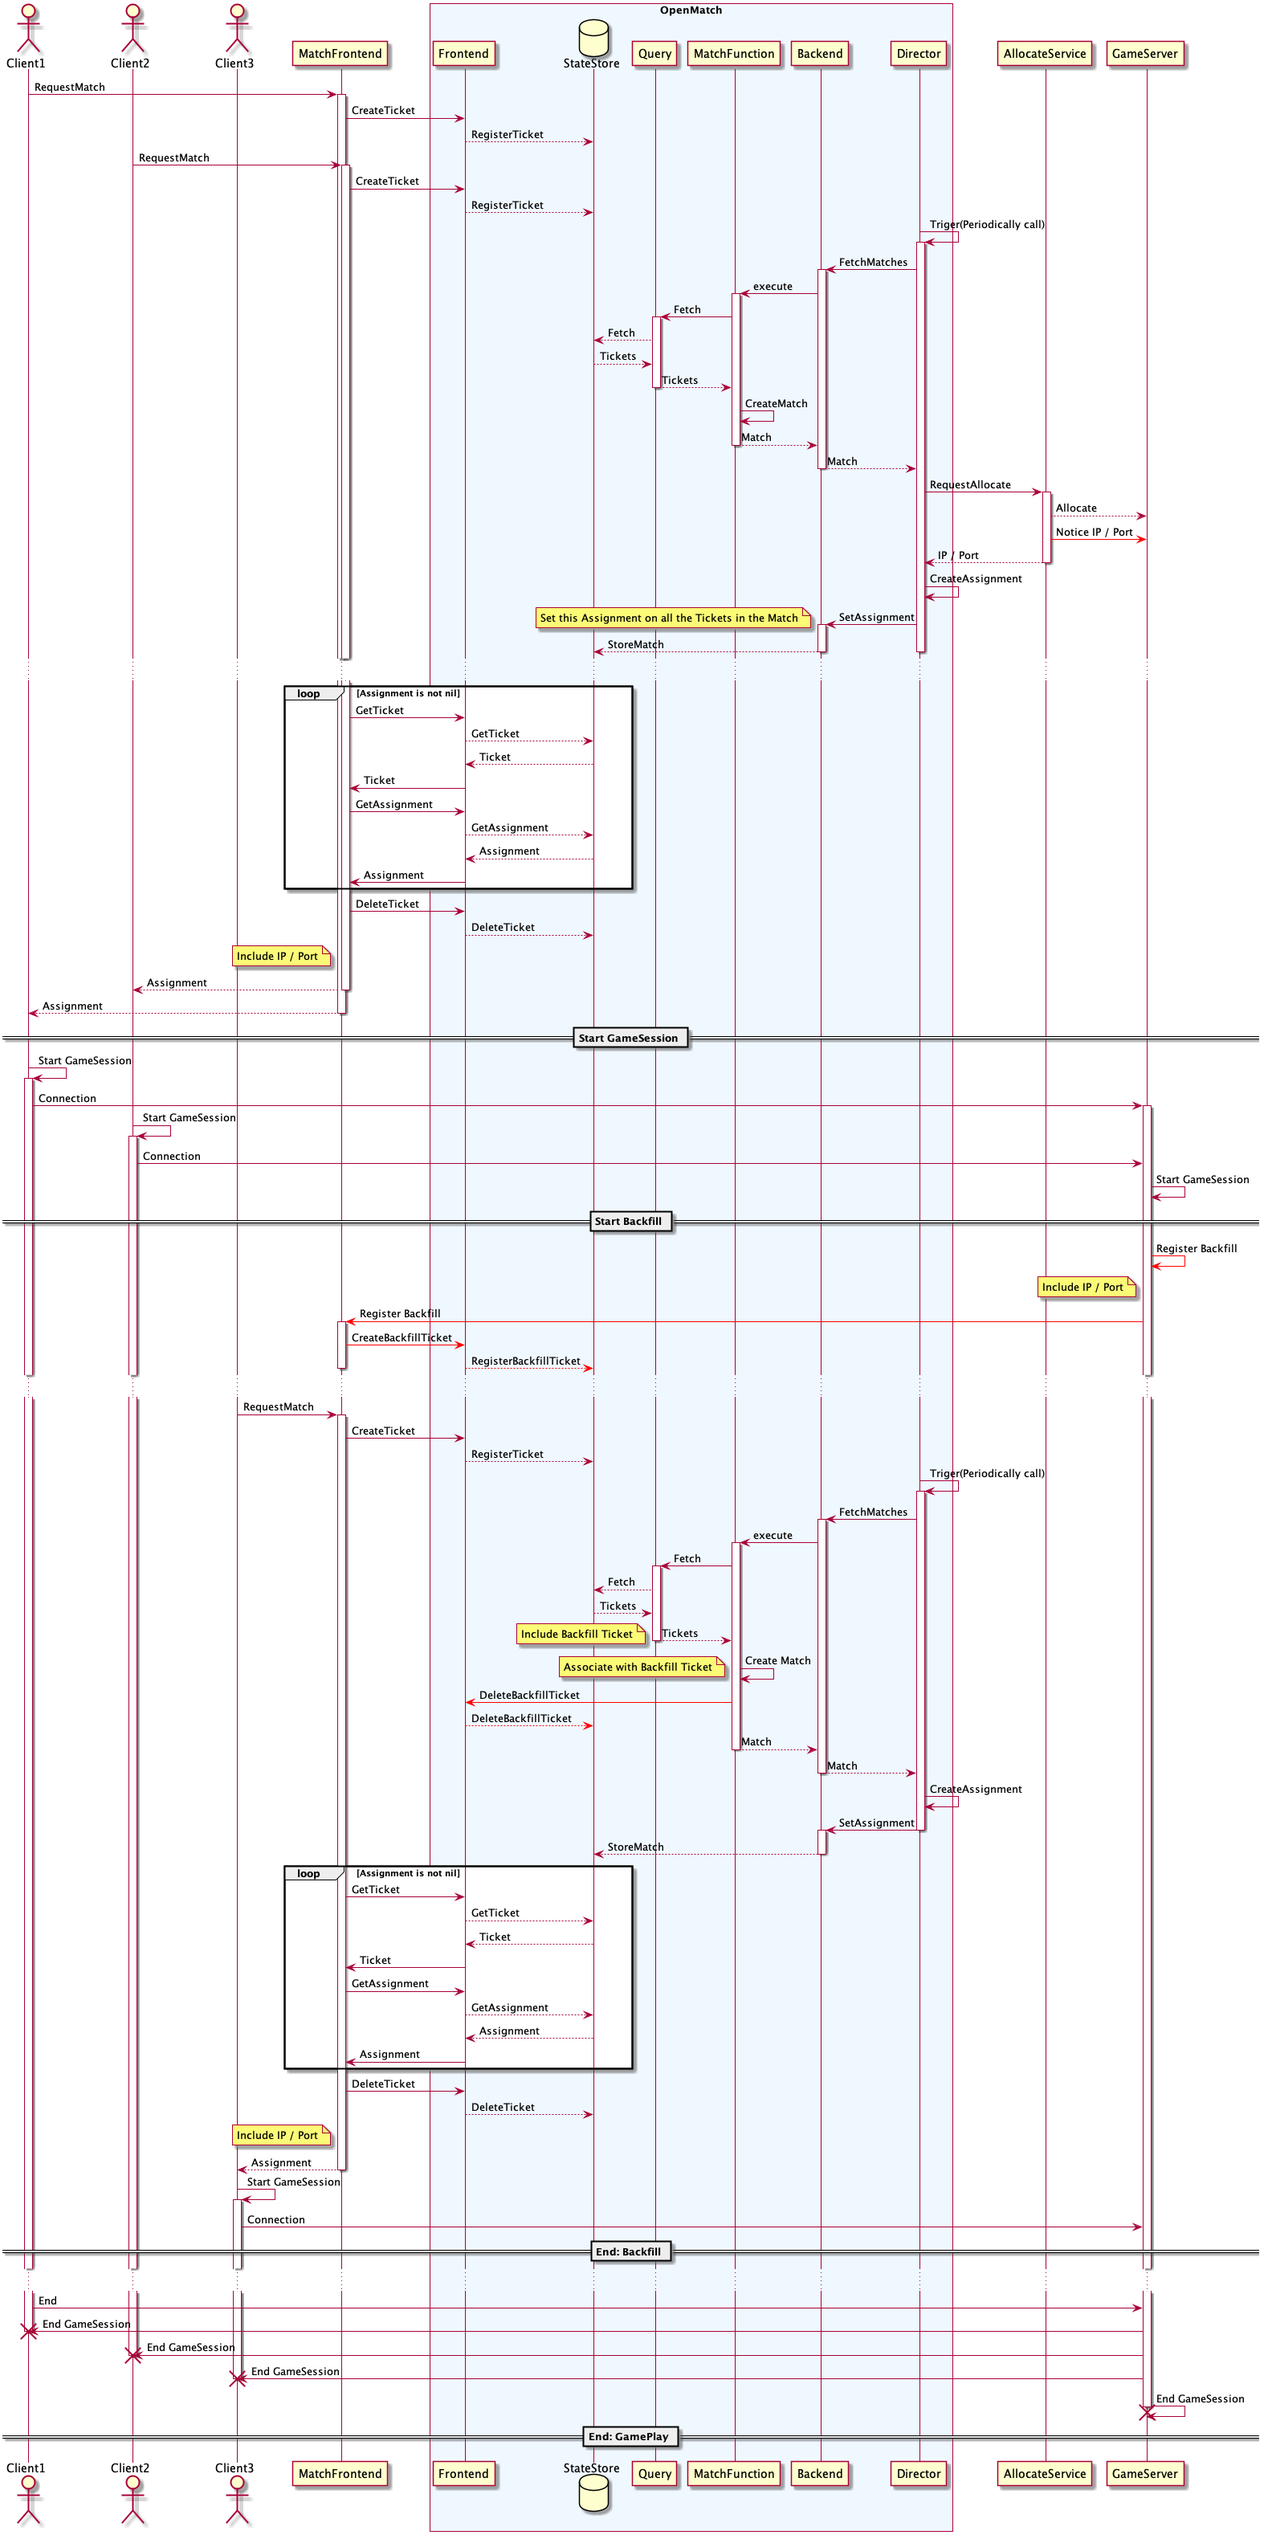
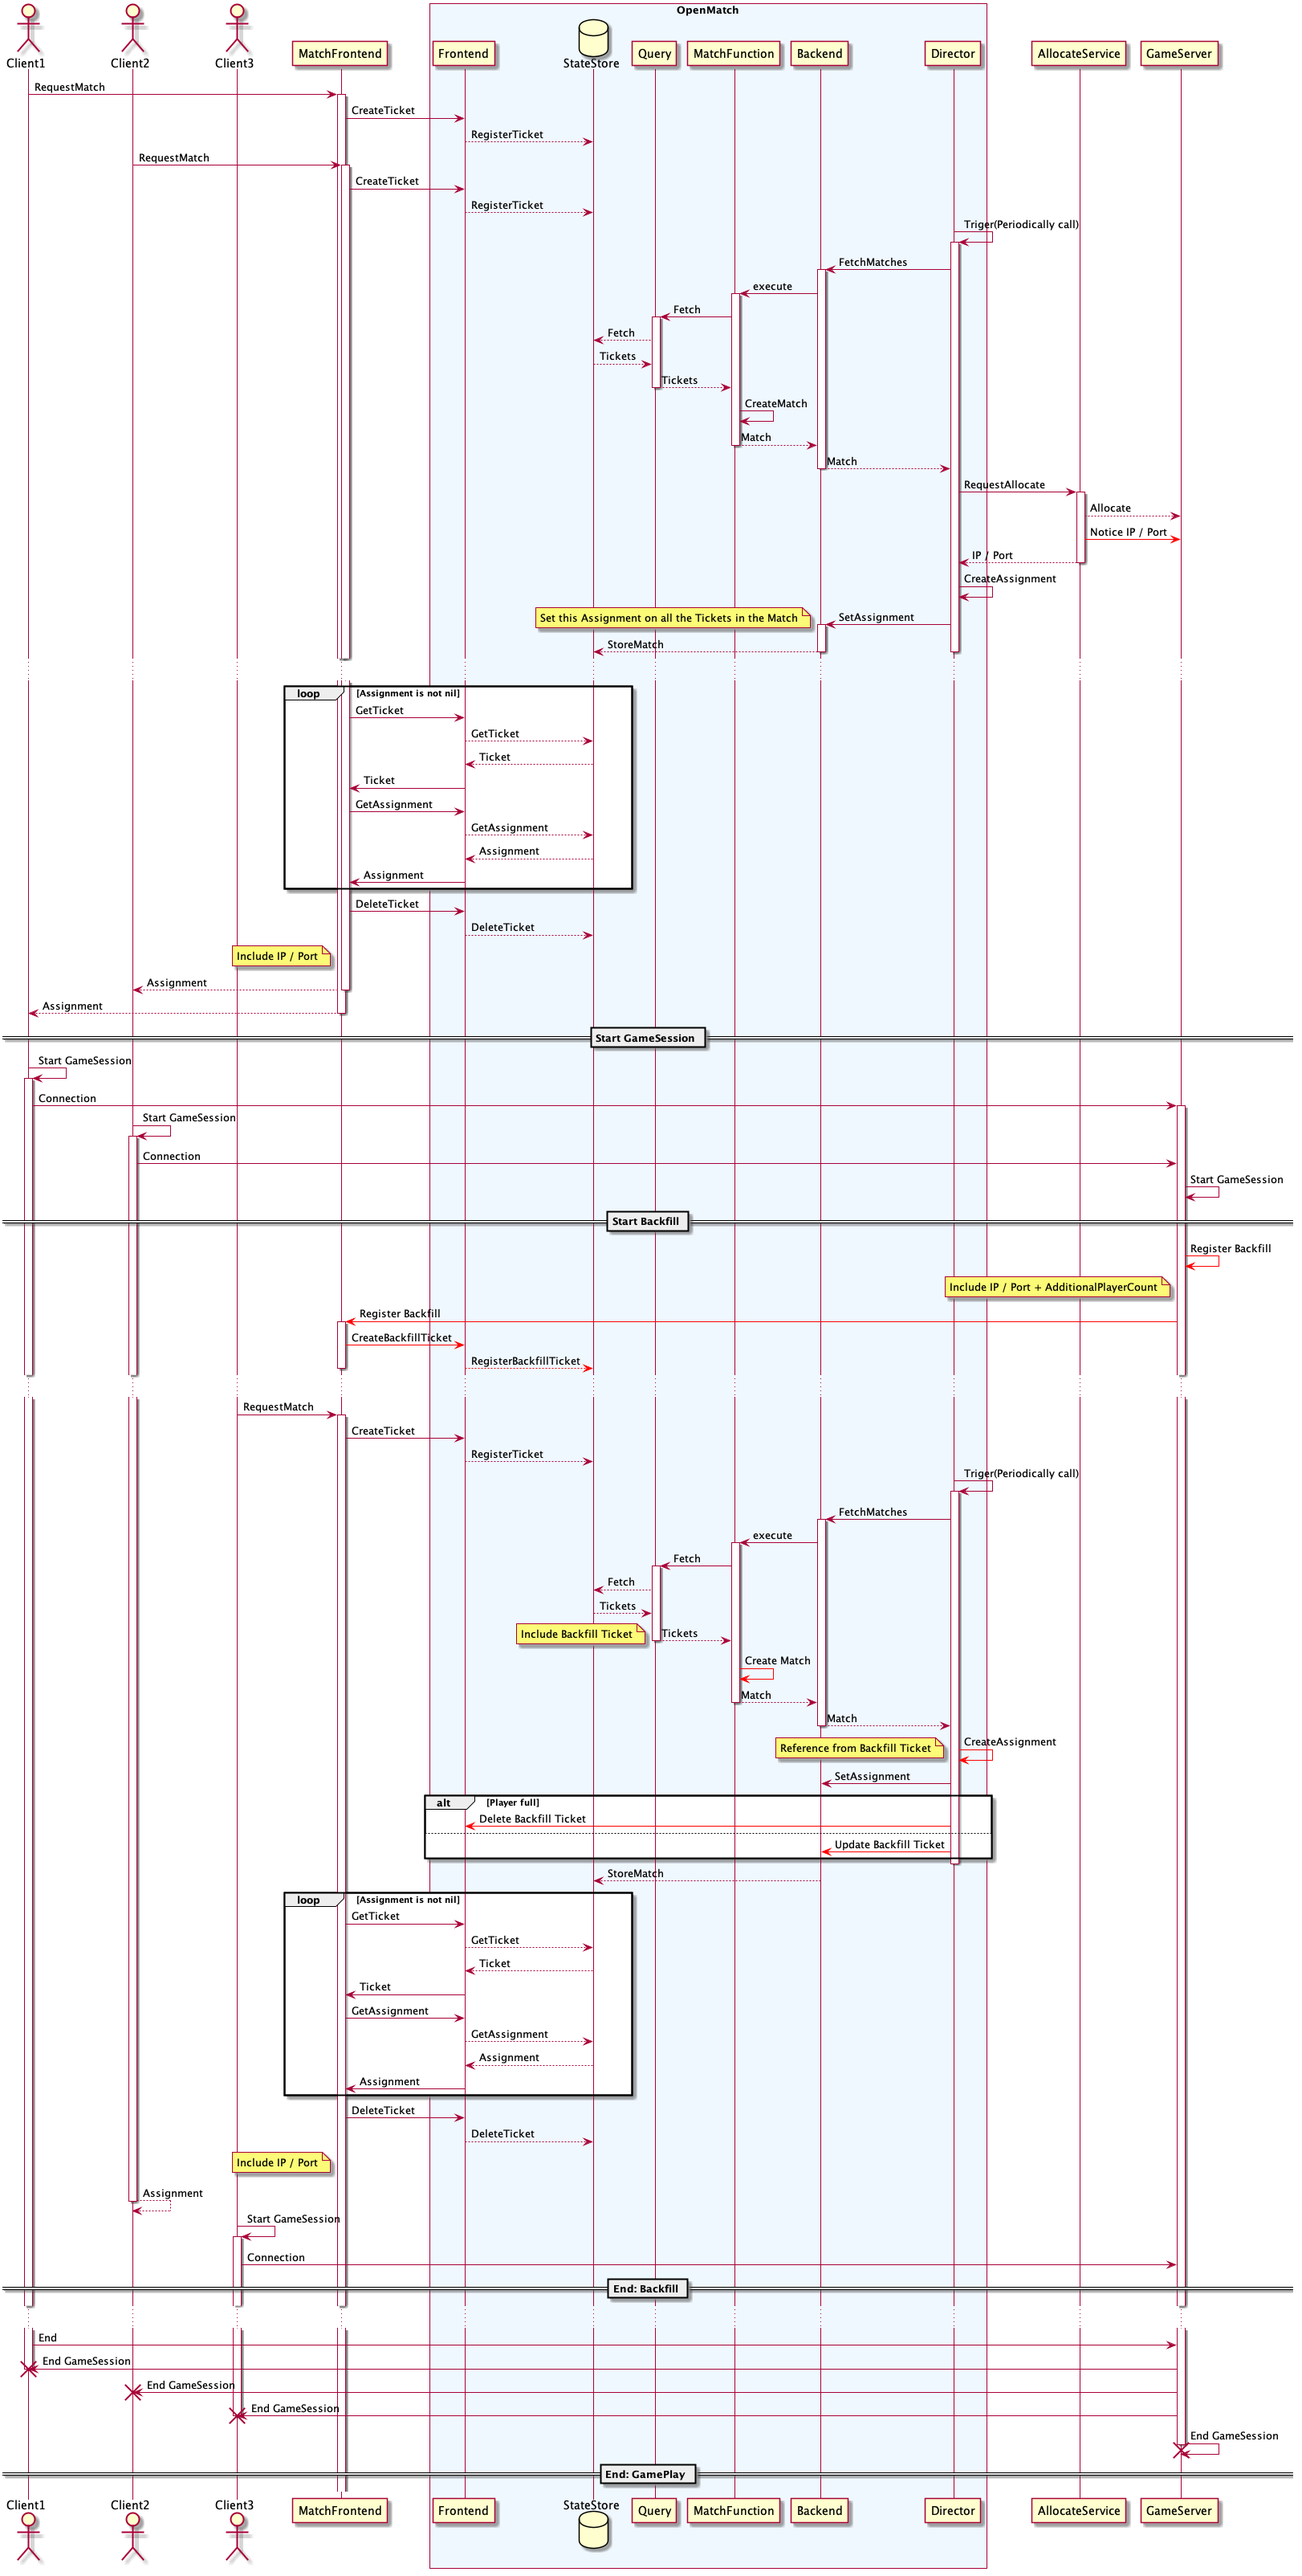
[Add] GameServer(simple-udp)のbackfill対応
- Connection通知を受け付けるよう対応
- Session開始時にBackfillTicketを作成
- プレイヤー退出時にBackfillTicketを作成

diff --git a/GameServer/mod_simple-udp/main.go b/GameServer/mod_simple-udp/main.go
@@ -2,10 +2,12 @@
 package main
 
 import (
+	"bytes"
 	"encoding/json"
 	"flag"
 	"log"
 	"net"
+	"net/http"
 	"os"
 	"strconv"
 	"strings"
@@ -15,6 +17,13 @@ import (
 	"agones.dev/agones/pkg/util/signals"
 	sdk "agones.dev/agones/sdks/go"
 )
+
+const (
+	// OpenMatchのBackfillEndpoint
+	mfBackfillEndpoint = "match-frontend.svc.cluster.local:80/backend"
+)
+
+const maxPlayerNum = 4
 
 var addrs = map[uint]net.Addr{}
 
@@ -85,12 +94,15 @@ func doSignal() {
 
 func readWriteLoop(conn net.PacketConn, stop chan struct{}, s *sdk.SDK) {
 	b := make([]byte, 1024)
+	var connection string
 	for {
 		sender, txt := readPacket(conn, b)
 
+		var recvPort uint
 		switch addr := sender.(type) {
 		case *net.UDPAddr:
-			addrs[uint(addr.Port)] = addr
+			recvPort = uint(addr.Port)
+			addrs[recvPort] = addr
 		}
 
 		parts := strings.Split(strings.TrimSpace(txt), " ")
@@ -148,6 +160,21 @@ func readWriteLoop(conn net.PacketConn, stop chan struct{}, s *sdk.SDK) {
 				respond(conn, sender, "ERROR: Invalid ANNOTATION command, must use zero or 2 arguments\n")
 				continue
 			}
+
+		case "CONNECTION":
+			connection = txt
+
+		case "SESSIONSTART":
+			joinablePlayerNum := maxPlayerNum - len(addrs)
+			if joinablePlayerNum > 0 {
+				// OpenMatchのBackfillEndpointにBackfillTicketの作成を依頼
+				requestBackfill(connection, joinablePlayerNum)
+			}
+
+		case "LEAVE":
+			// OpenMatchのBackfillEndpointにBackfillTicketの作成を依頼
+			requestBackfill(connection, 1)
+			delete(addrs, recvPort)
 		}
 
 		respond(conn, sender, "ACK: "+txt+"\n")
@@ -273,4 +300,30 @@ func doHealth(sdk *sdk.SDK, stop <-chan struct{}) {
 		case <-tick:
 		}
 	}
+}
+
+// backfillRequest
+type backfillRequest struct {
+	Connection        string `json:"connection" form:"connection" query:"connection"`
+	JoinablePlayerNum string `json:"joinableplayernum" form:"joinableplayernum" query:"joinableplayernum"`
+}
+
+// requestBackfill
+func requestBackfill(connection string, joinablePlayerNum int) error {
+	reqBody := backfillRequest{Connection: connection, JoinablePlayerNum: strconv.Itoa(joinablePlayerNum)}
+	body, err := json.Marshal(reqBody)
+	if err != nil {
+		return err
+	}
+	backfillReq, err := http.NewRequest("POST", mfBackfillEndpoint, bytes.NewReader(body))
+	if err != nil {
+		return err
+	}
+	client := new(http.Client)
+	resp, err := client.Do(backfillReq)
+	if err != nil {
+		return err
+	}
+	defer resp.Body.Close()
+	return nil
 }

diff --git a/OpenMatch/mod_matchmaker101/director/main.go b/OpenMatch/mod_matchmaker101/director/main.go
@@ -7,6 +7,7 @@ import (
 	"io"
 	"io/ioutil"
 	"log"
+	"net"
 	"net/http"
 	"strconv"
 	"sync"
@@ -189,6 +190,8 @@ func assign(be pb.BackendServiceClient, matches []*pb.Match) error {
 		var conn string
 		conn = fmt.Sprintf("%s:%d", alo.Status.Address, alo.Status.Ports[0].Port)
 
+		go noticeConnection(conn)
+
 		req := &pb.AssignTicketsRequest{
 			TicketIds: ticketIDs,
 			Assignment: &pb.Assignment{
@@ -204,6 +207,14 @@ func assign(be pb.BackendServiceClient, matches []*pb.Match) error {
 	}
 
 	return nil
+}
+
+func noticeConnection(connection string) {
+	conn, _ := net.Dial("udp", connection)
+	defer conn.Close()
+	conn.Write([]byte("CONNECTION " + connection))
+	buffer := make([]byte, 1500)
+	conn.Read(buffer)
 }
 
 func backfillAssign(be pb.BackendServiceClient, match *pb.Match, backfillTicket *pb.Ticket) error {
